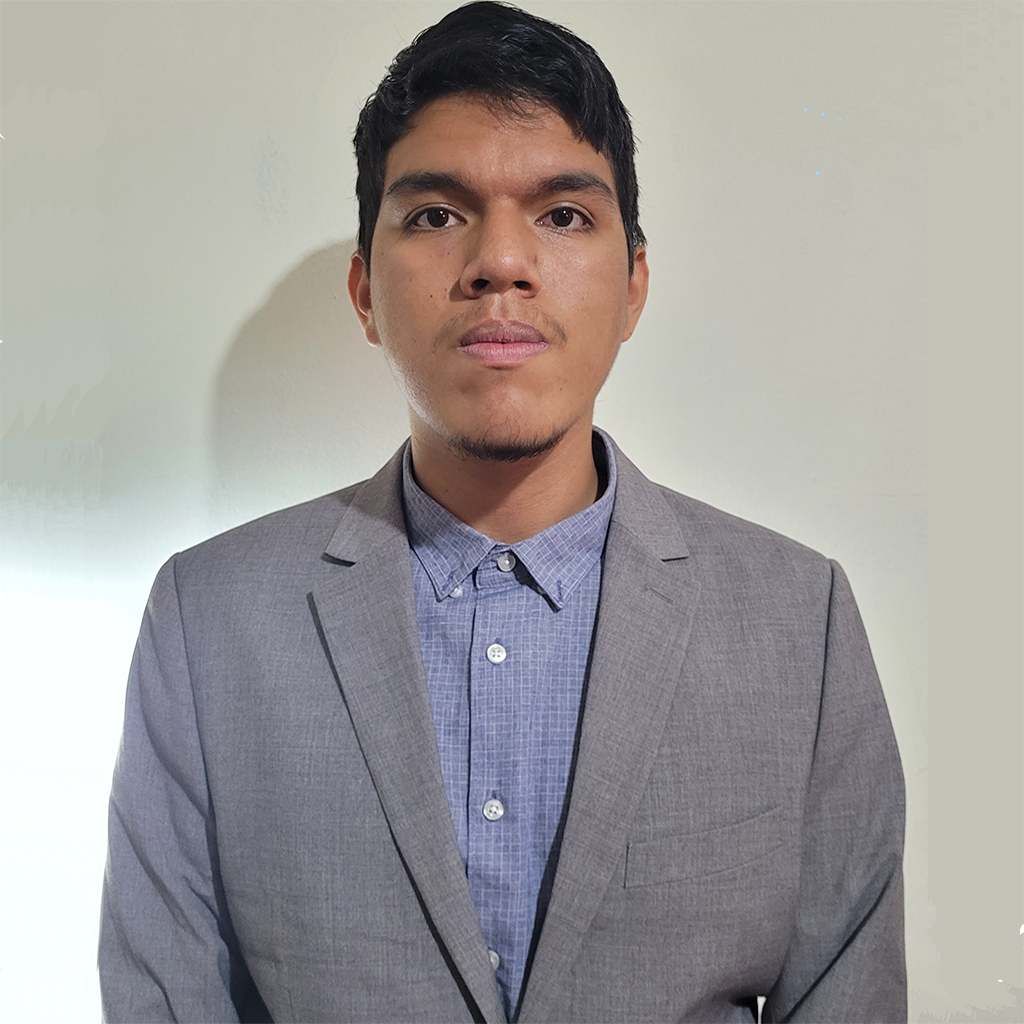
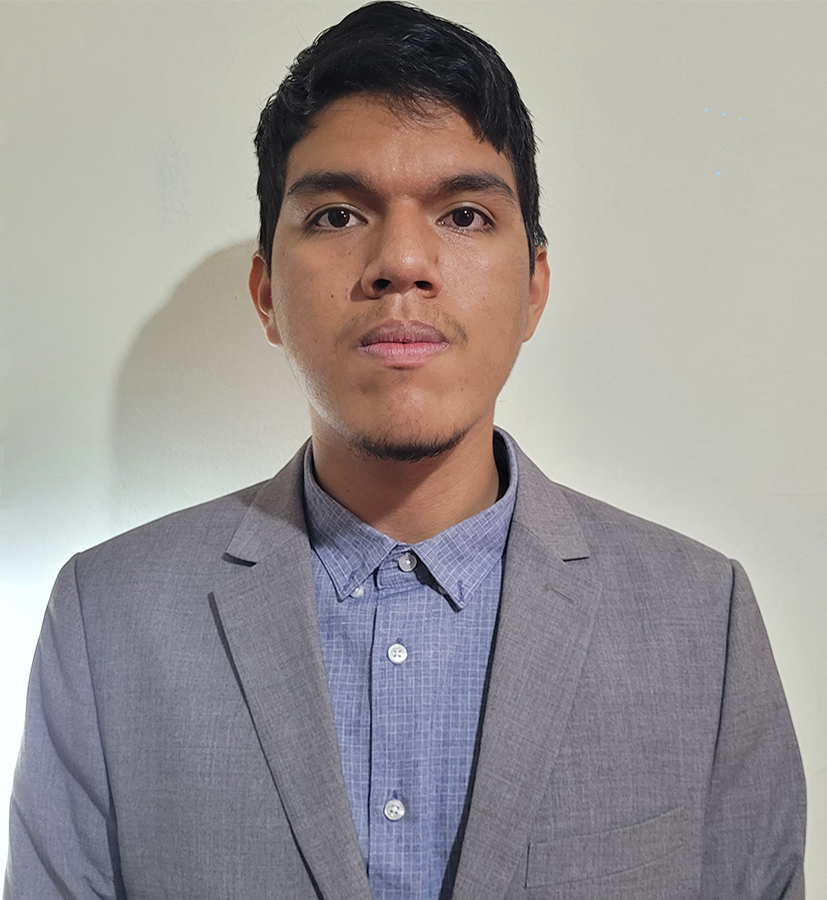
Agregación de imagen en el lado izquierdo

diff --git a/index.html b/index.html
@@ -11,8 +11,11 @@
     <div id="hoja">
 
         <div id="lado_izquierdo">
-            <h1>foto</h1>
-            <p>edad</p>
+            <div id="Foto_principal">
+                <img src="source/Foto-1-Luis-Enrique-Pérez.jpg" alt="Foto">
+            </div>
+            <p>hola</p>
+            <h1>Edad</h1>
         </div>
 
         <div id="lado_derecho">

diff --git a/css/style.css b/css/style.css
@@ -29,10 +29,16 @@ body{
     position: absolute;
     left: 0%;
     top: 0%;
-    padding: 5px 0 5px 5px;
-    border: 5px solid black;
-    border-right: none;
+    padding: 0;
 }
+
+#Foto_principal img{
+    width: 100%;
+    height: 40%;
+    position: relative;
+}
+
+
 
 #lado_derecho{
     height: 100%;
